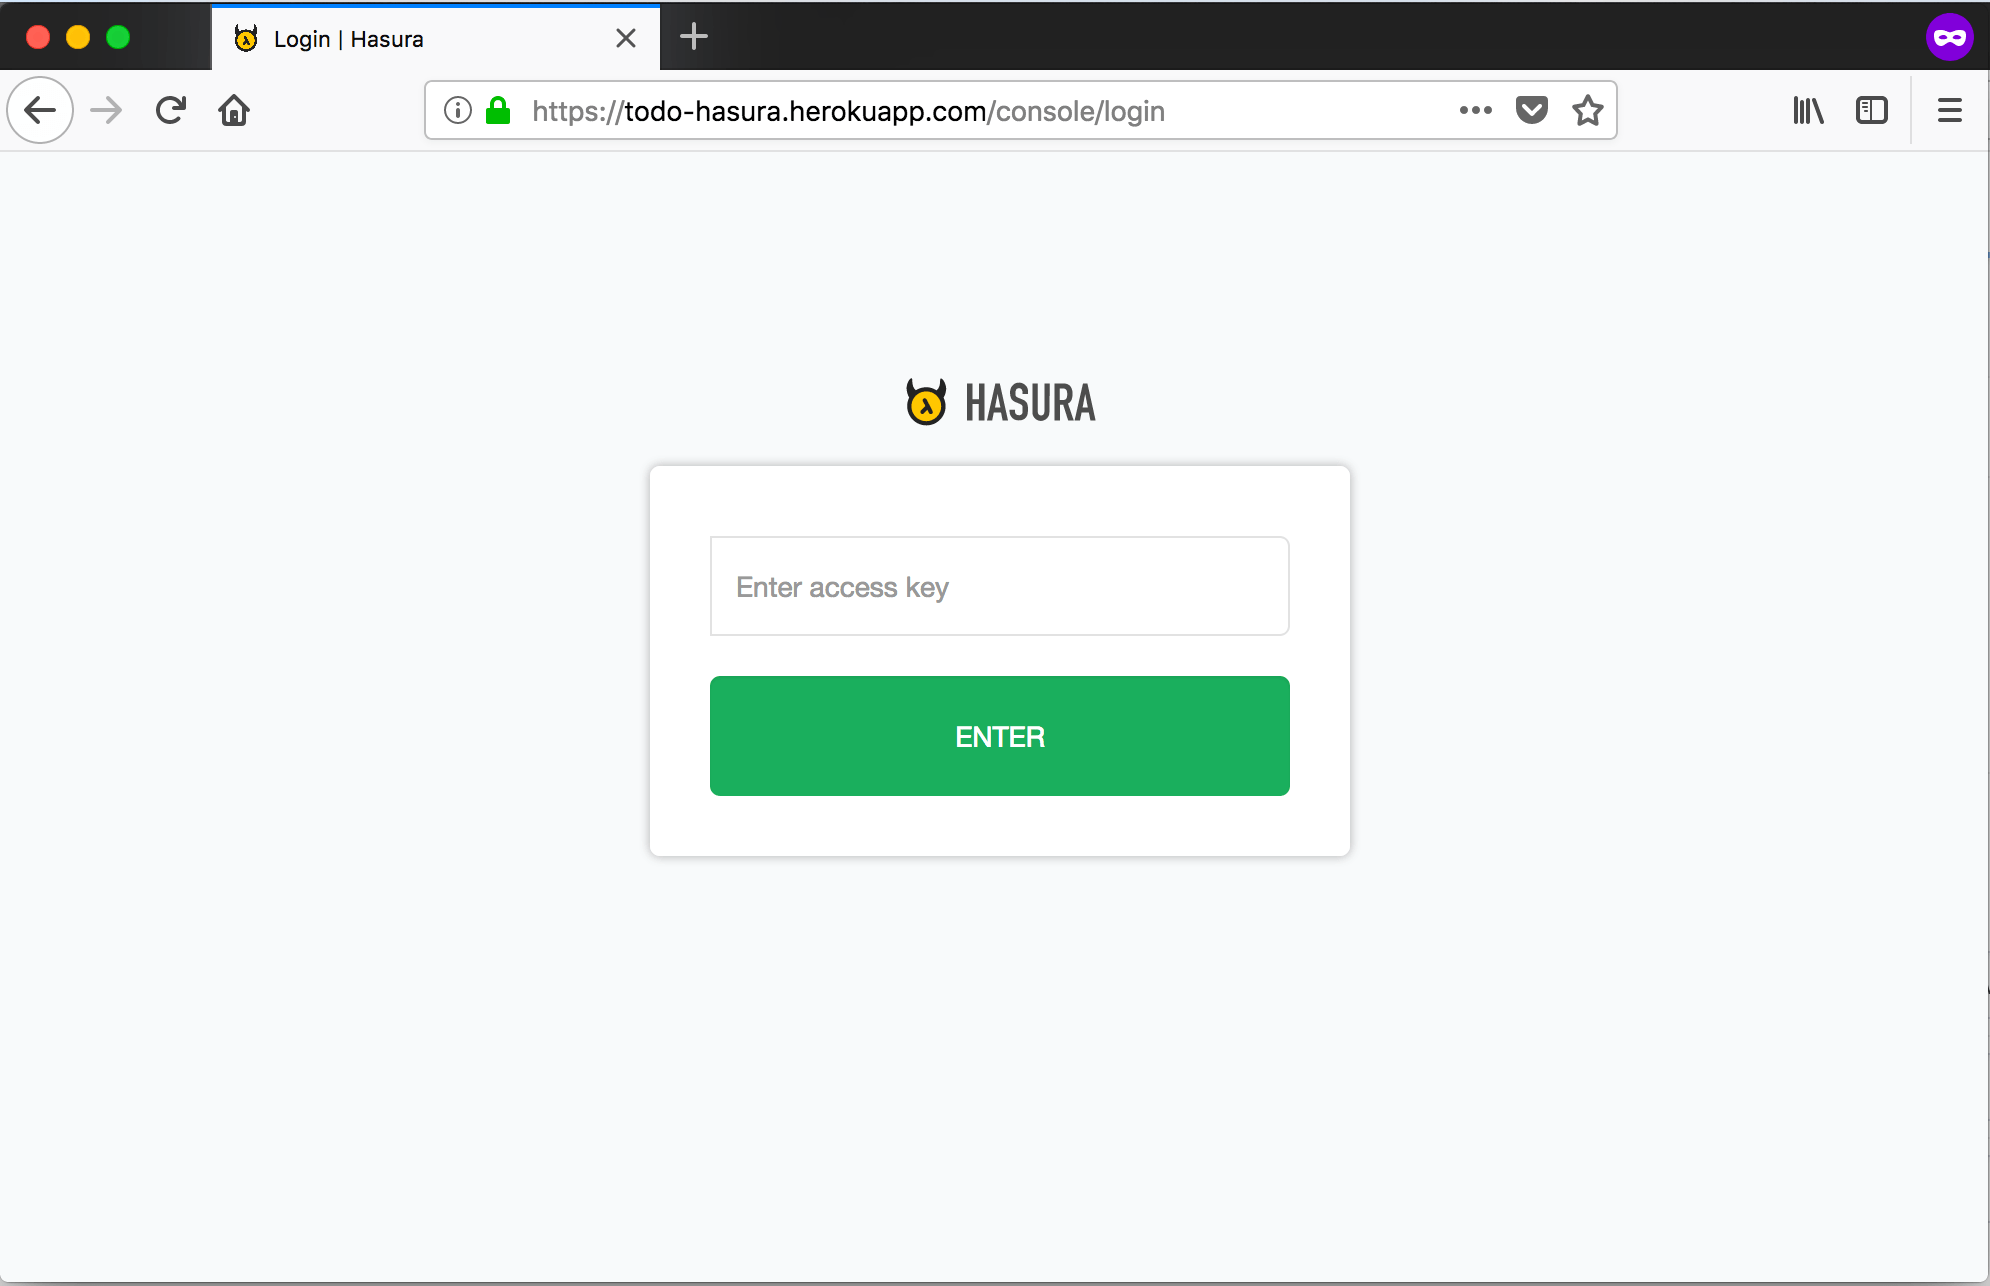
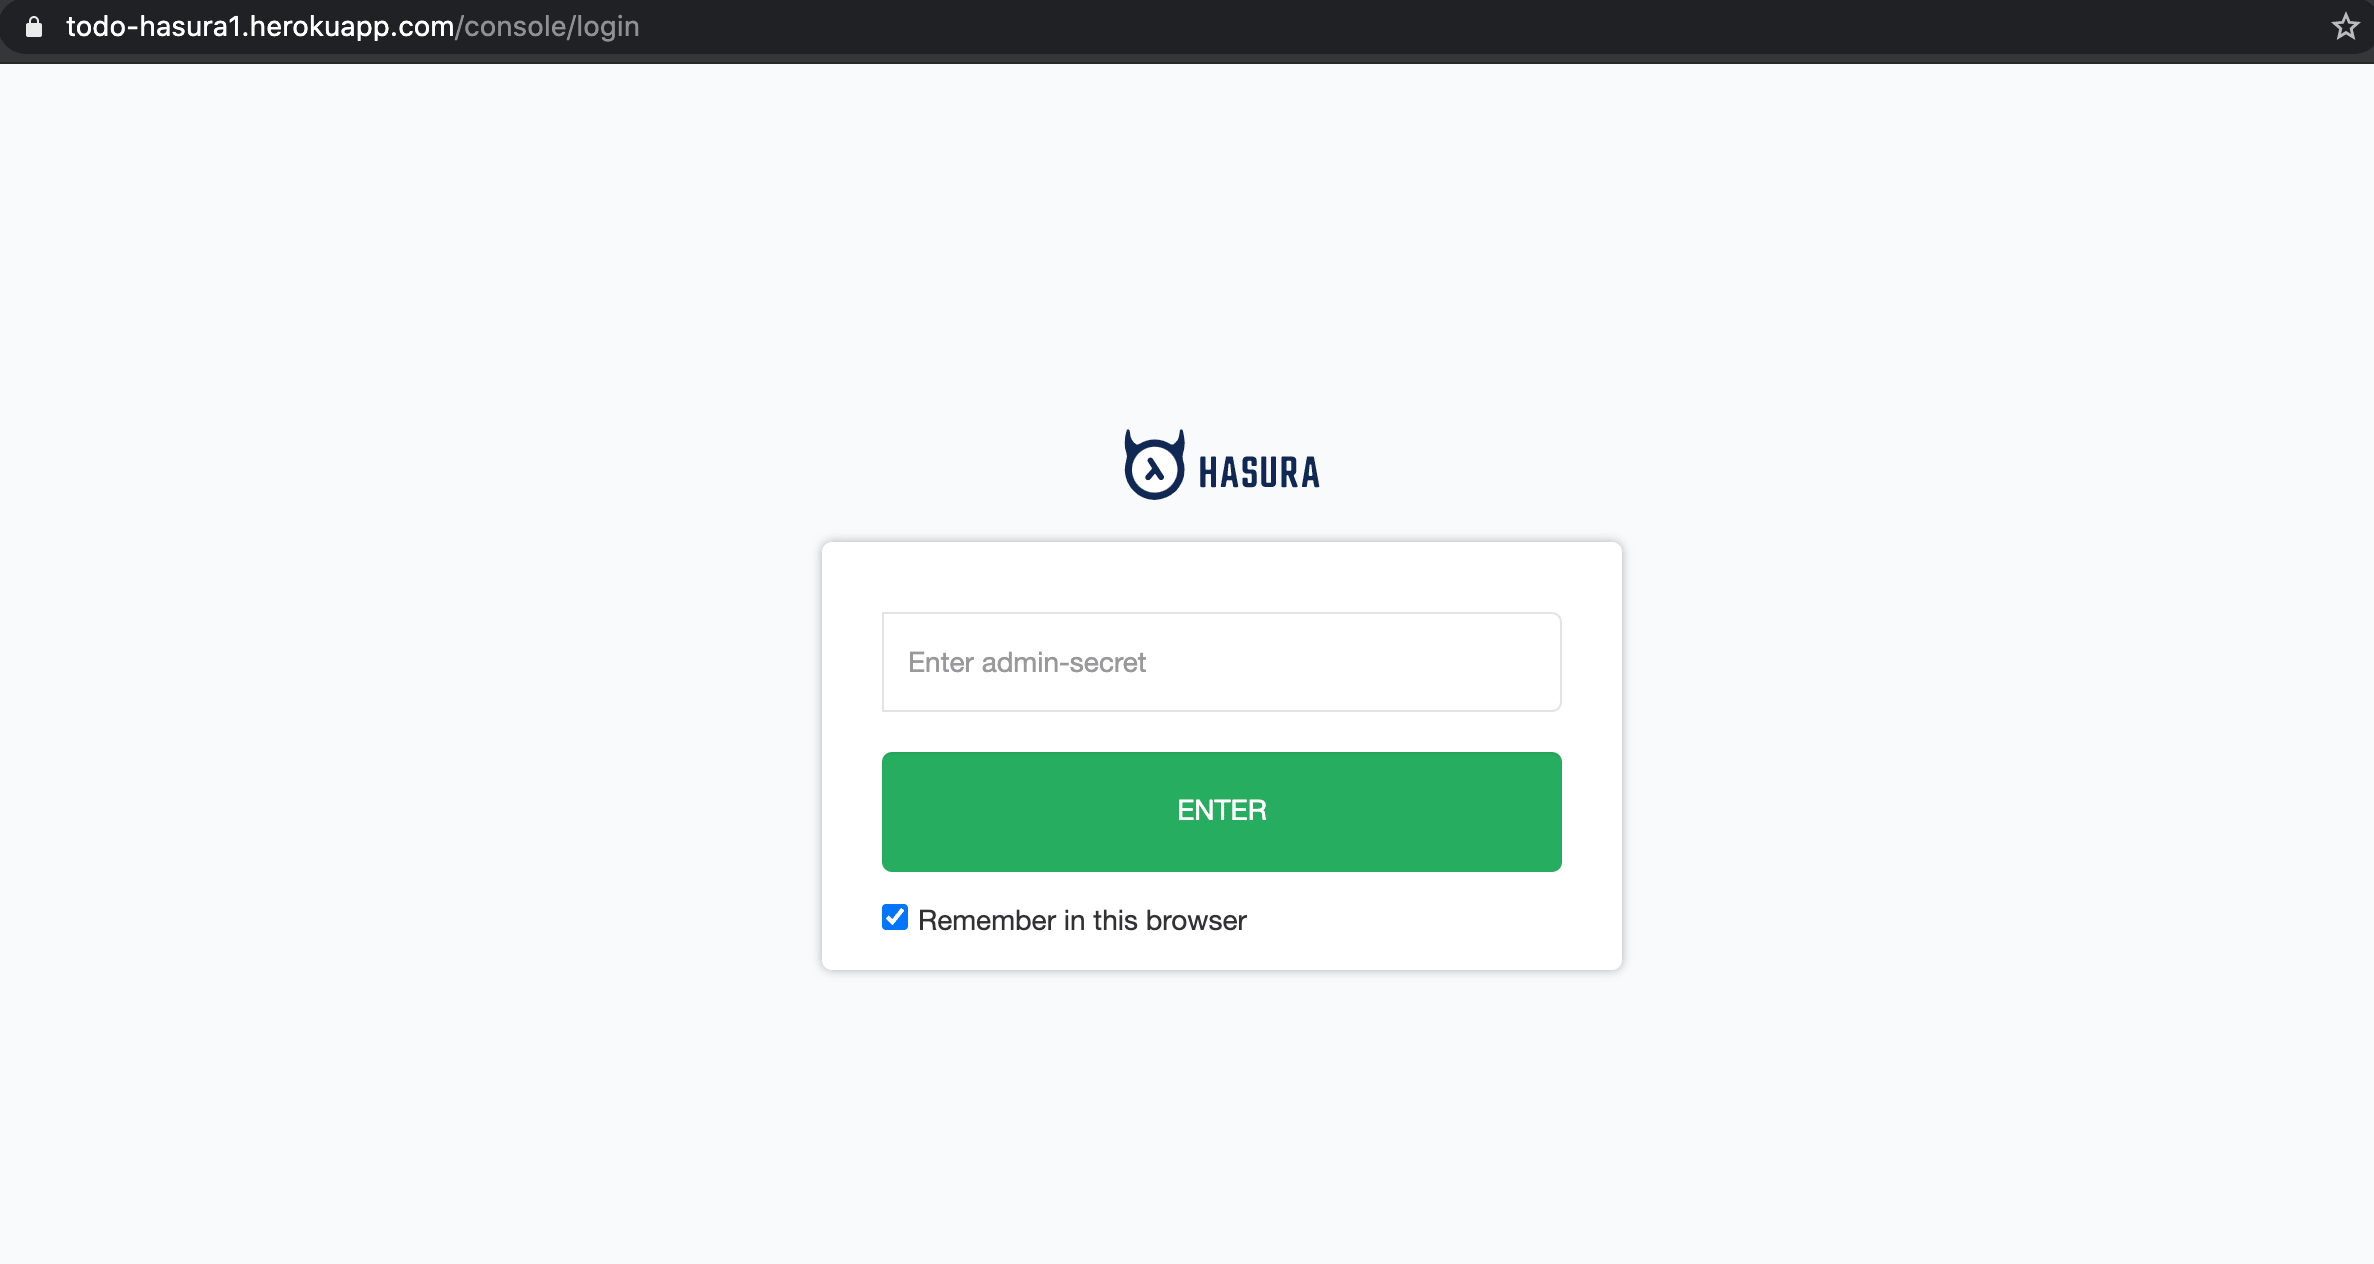
add new docs for heroku images

Changed region(s): [[0.0, 0.0, 1.0, 1.0], [0.3427, 0.4628, 0.6854, 0.7405], [0.3427, 0.2777, 0.6854, 0.4628]]

diff --git a/docs/graphql/core/deployment/deployment-guides/heroku.rst b/docs/graphql/core/deployment/deployment-guides/heroku.rst
@@ -152,7 +152,7 @@ Step 3: Configure environment variables
 Now configure the ``DATABASE_URL`` with your existing Heroku Postgres database URL and a ``HASURA_GRAPHQL_ADMIN_SECRET``
 if you want to :ref:`secure your endpoint <heroku_secure>`.
 
-.. thumbnail:: /img/graphql/core/deployment/heroku-database-url-access.png
+.. thumbnail:: /img/graphql/core/deployment/heroku-database-access-url.png
    :alt: Configure environment variables
 
 .. note::
